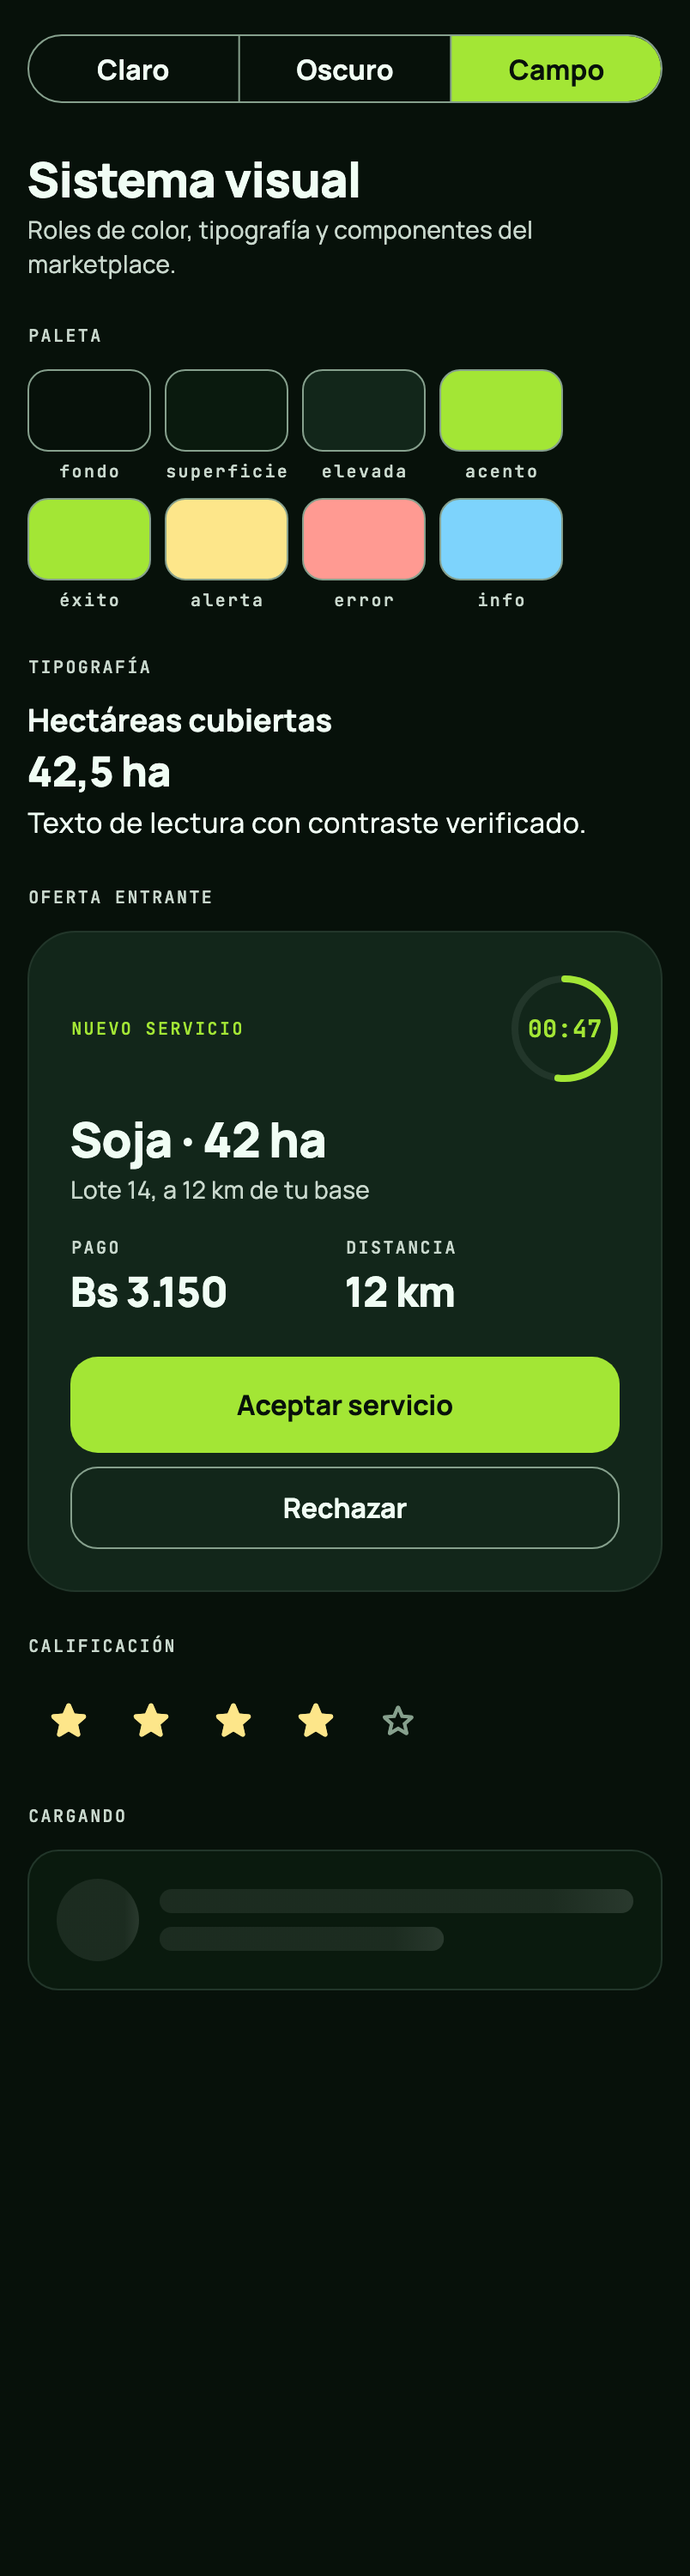
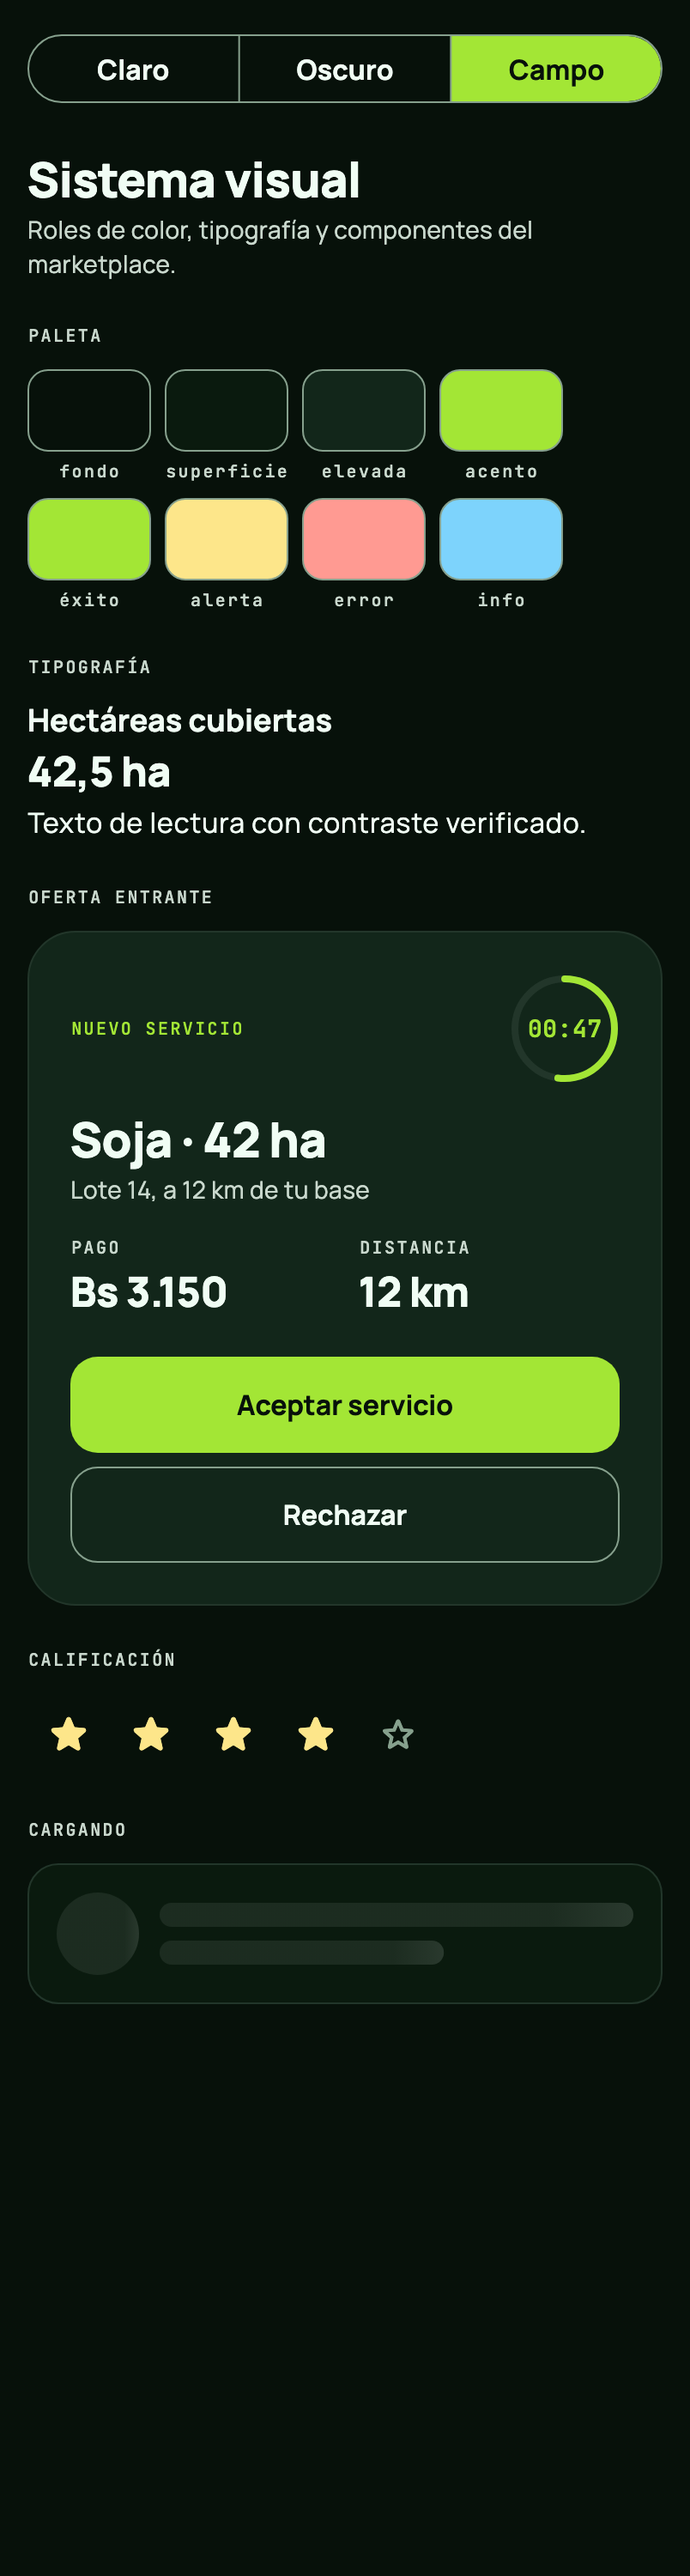
amplía la tarjeta de oferta con mapa, detalle y estados de envío y sin conexión
Suma el chip de estado y el error de carga con reintento que usan las
pantallas del proveedor. Pago y distancia pasan a una fila que se parte con
el texto al 200 %, el anillo crece con la escala y Rechazar toma el alto del
tema (56 px en modo campo). Se regeneran los goldens y las capturas de la
vitrina que muestran la tarjeta

diff --git a/lib/nucleo/ui/componentes/oferta_servicio_campo.dart b/lib/nucleo/ui/componentes/oferta_servicio_campo.dart
@@ -23,6 +23,11 @@ class OfertaServicioCampo extends StatelessWidget {
     required this.total,
     required this.onAceptar,
     required this.onRechazar,
+    this.etiqueta = 'NUEVO SERVICIO',
+    this.mapa,
+    this.onDetalle,
+    this.respondiendo = false,
+    this.sinConexion = false,
     super.key,
   });
 
@@ -43,8 +48,32 @@ class OfertaServicioCampo extends StatelessWidget {
   final VoidCallback onAceptar;
   final VoidCallback onRechazar;
 
-  String get _restanteTexto {
+  /// Rótulo en mono sobre el título ("PRIORITARIA · FLOTA DE AGROCOM").
+  final String etiqueta;
+
+  /// Mapa del lote, entre el detalle y los datos. Sin él la tarjeta es solo
+  /// texto.
+  final Widget? mapa;
+
+  /// Abre el detalle de la oferta.
+  final VoidCallback? onDetalle;
+
+  /// La respuesta viaja al servidor: los botones quedan en espera para que
+  /// un segundo toque no dispare otra.
+  final bool respondiendo;
+
+  /// Sin red no se puede responder (ADR 0009): los botones se apagan y la
+  /// tarjeta dice por qué.
+  final bool sinConexion;
+
+  /// "00:47" por debajo de la hora; "1 h 05" por encima (ofertas
+  /// programadas, con ventana de horas).
+  static String textoRestante(Duration restante) {
     final seg = restante.inSeconds.clamp(0, 359999);
+    if (seg >= 3600) {
+      final minutos = ((seg % 3600) ~/ 60).toString().padLeft(2, '0');
+      return '${seg ~/ 3600} h $minutos';
+    }
     final m = (seg ~/ 60).toString().padLeft(2, '0');
     final s = (seg % 60).toString().padLeft(2, '0');
     return '$m:$s';
@@ -59,11 +88,13 @@ class OfertaServicioCampo extends StatelessWidget {
         : (restante.inMilliseconds / total.inMilliseconds).clamp(0.0, 1.0);
     final porVencer = restante.inSeconds <= 10;
     final colorTiempo = porVencer ? paleta.error : paleta.acentoTexto;
+    final bloqueada = respondiendo || sinConexion;
+    final tiempo = textoRestante(restante);
 
     return Semantics(
       container: true,
       label:
-          'Oferta de servicio: $titulo, $monto, quedan $_restanteTexto para responder',
+          'Oferta de servicio: $titulo, $monto, quedan $tiempo para responder',
       child: Container(
         padding: const EdgeInsets.all(EspaciadoCampo.xl),
         decoration: BoxDecoration(
@@ -80,17 +111,18 @@ class OfertaServicioCampo extends StatelessWidget {
               children: [
                 Expanded(
                   child: Text(
-                    'NUEVO SERVICIO',
+                    etiqueta,
                     style: texto.labelSmall?.copyWith(
                       color: paleta.acentoTexto,
                     ),
                   ),
                 ),
+                const SizedBox(width: EspaciadoCampo.m),
                 _AnilloTiempo(
                   progreso: progreso,
                   color: colorTiempo,
                   pista: paleta.borde,
-                  texto: _restanteTexto,
+                  texto: tiempo,
                 ),
               ],
             ),
@@ -98,40 +130,88 @@ class OfertaServicioCampo extends StatelessWidget {
             Text(titulo, style: texto.headlineMedium),
             const SizedBox(height: EspaciadoCampo.xs),
             Text(detalle, style: texto.bodyMedium),
+            if (mapa != null) ...[
+              const SizedBox(height: EspaciadoCampo.l),
+              ClipRRect(
+                borderRadius: BorderRadius.circular(16),
+                child: SizedBox(height: 132, child: mapa),
+              ),
+            ],
             const SizedBox(height: EspaciadoCampo.l),
-            Row(
-              children: [
-                Expanded(
-                  child: _Dato(etiqueta: 'PAGO', valor: monto, paleta: paleta),
-                ),
-                Expanded(
-                  child: _Dato(
-                    etiqueta: 'DISTANCIA',
-                    valor: distancia,
-                    paleta: paleta,
-                  ),
-                ),
-              ],
+            // Dos columnas mientras entren; con el texto al 200 % cada dato
+            // ocupa su propia línea en vez de recortarse.
+            LayoutBuilder(
+              builder: (context, c) {
+                final mitad = (c.maxWidth - EspaciadoCampo.l) / 2;
+                return Wrap(
+                  spacing: EspaciadoCampo.l,
+                  runSpacing: EspaciadoCampo.m,
+                  children: [
+                    ConstrainedBox(
+                      constraints: BoxConstraints(minWidth: mitad),
+                      child: _Dato(etiqueta: 'PAGO', valor: monto),
+                    ),
+                    ConstrainedBox(
+                      constraints: BoxConstraints(minWidth: mitad),
+                      child: _Dato(etiqueta: 'DISTANCIA', valor: distancia),
+                    ),
+                  ],
+                );
+              },
             ),
             const SizedBox(height: EspaciadoCampo.xl),
+            if (sinConexion) ...[
+              Row(
+                key: const Key('oferta-sin-conexion'),
+                children: [
+                  Icon(Icons.wifi_off_rounded, size: 20, color: paleta.alerta),
+                  const SizedBox(width: EspaciadoCampo.s),
+                  Expanded(
+                    child: Text(
+                      'Sin conexión. Para responder necesitás red.',
+                      style: texto.bodyMedium?.copyWith(color: paleta.texto),
+                    ),
+                  ),
+                ],
+              ),
+              const SizedBox(height: EspaciadoCampo.m),
+            ],
             FilledButton(
-              onPressed: () {
-                HapticaCampo.confirmacion();
-                onAceptar();
-              },
+              onPressed: bloqueada
+                  ? null
+                  : () {
+                      HapticaCampo.confirmacion();
+                      onAceptar();
+                    },
               style: FilledButton.styleFrom(
                 minimumSize: const Size.fromHeight(ObjetivoTactilCampo.guantes),
+                disabledBackgroundColor: paleta.borde,
+                disabledForegroundColor: paleta.textoSecundario,
               ),
-              child: const Text('Aceptar servicio'),
+              child: Text(respondiendo ? 'Enviando…' : 'Aceptar servicio'),
             ),
             const SizedBox(height: EspaciadoCampo.s),
+            // El alto lo pone el tema: 48 en claro y oscuro, 56 en modo campo.
             OutlinedButton(
-              onPressed: onRechazar,
+              onPressed: bloqueada ? null : onRechazar,
               style: OutlinedButton.styleFrom(
-                minimumSize: const Size.fromHeight(ObjetivoTactilCampo.minimo),
+                disabledForegroundColor: paleta.textoSecundario,
               ),
               child: const Text('Rechazar'),
             ),
+            if (onDetalle != null) ...[
+              const SizedBox(height: EspaciadoCampo.xs),
+              TextButton(
+                onPressed: onDetalle,
+                style: TextButton.styleFrom(
+                  foregroundColor: paleta.acentoTexto,
+                  minimumSize: const Size.fromHeight(
+                    ObjetivoTactilCampo.minimo,
+                  ),
+                ),
+                child: const Text('Ver detalle y mapa'),
+              ),
+            ],
           ],
         ),
       ),
@@ -140,21 +220,17 @@ class OfertaServicioCampo extends StatelessWidget {
 }
 
 class _Dato extends StatelessWidget {
-  const _Dato({
-    required this.etiqueta,
-    required this.valor,
-    required this.paleta,
-  });
+  const _Dato({required this.etiqueta, required this.valor});
 
   final String etiqueta;
   final String valor;
-  final PaletaCampo paleta;
 
   @override
   Widget build(BuildContext context) {
     final texto = Theme.of(context).textTheme;
     return Column(
       crossAxisAlignment: CrossAxisAlignment.start,
+      mainAxisSize: MainAxisSize.min,
       children: [
         Text(etiqueta, style: texto.labelSmall),
         const SizedBox(height: EspaciadoCampo.xs),
@@ -179,18 +255,25 @@ class _AnilloTiempo extends StatelessWidget {
 
   @override
   Widget build(BuildContext context) {
+    // El anillo crece con el texto del sistema hasta vez y media: más allá
+    // le quita el ancho al rótulo de al lado.
+    final factor = (MediaQuery.textScalerOf(context).scale(14) / 14).clamp(
+      1.0,
+      1.5,
+    );
     return SizedBox(
-      width: 64,
-      height: 64,
+      width: 64 * factor,
+      height: 64 * factor,
       child: CustomPaint(
         painter: _AnilloPainter(progreso: progreso, color: color, pista: pista),
         child: Center(
           child: Text(
             texto,
+            textScaler: TextScaler.noScaling,
             style: TextStyle(
               fontFamily: 'JetBrains Mono',
               fontWeight: FontWeight.w600,
-              fontSize: 14,
+              fontSize: 14 * factor,
               color: color,
             ),
           ),

diff --git a/lib/nucleo/marketplace/ui/chip_estado_marketplace.dart b/lib/nucleo/marketplace/ui/chip_estado_marketplace.dart
@@ -1,0 +1,72 @@
+import 'package:flutter/material.dart';
+
+import '../../ui/paleta_campo.dart';
+import '../../ui/tokens_campo.dart';
+
+/// Tono semántico de un [ChipEstadoMarketplace].
+enum TonoEstado { exito, info, alerta, error, neutro }
+
+/// Estado en una píldora: ícono + texto sobre un fondo tenue del tono. El
+/// ícono y el texto portan el significado; el color solo lo refuerza
+/// (sistema visual, §2), así se lee igual bajo el sol o con daltonismo.
+class ChipEstadoMarketplace extends StatelessWidget {
+  const ChipEstadoMarketplace({
+    required this.etiqueta,
+    required this.tono,
+    required this.icono,
+    this.etiquetaSemantica,
+    super.key,
+  });
+
+  final String etiqueta;
+  final TonoEstado tono;
+  final IconData icono;
+
+  /// Lo que anuncia el lector de pantalla. Por defecto, «Estado: [etiqueta]».
+  final String? etiquetaSemantica;
+
+  @override
+  Widget build(BuildContext context) {
+    final paleta = context.paleta;
+    final color = switch (tono) {
+      TonoEstado.exito => paleta.exito,
+      TonoEstado.info => paleta.info,
+      TonoEstado.alerta => paleta.alerta,
+      TonoEstado.error => paleta.error,
+      TonoEstado.neutro => paleta.textoSecundario,
+    };
+    return Semantics(
+      container: true,
+      label: etiquetaSemantica ?? 'Estado: $etiqueta',
+      excludeSemantics: true,
+      child: Container(
+        padding: const EdgeInsets.symmetric(
+          horizontal: EspaciadoCampo.m,
+          vertical: EspaciadoCampo.xs + 2,
+        ),
+        decoration: BoxDecoration(
+          color: color.withValues(alpha: 0.14),
+          borderRadius: BorderRadius.circular(999),
+          border: Border.all(color: color.withValues(alpha: 0.5)),
+        ),
+        child: Row(
+          mainAxisSize: MainAxisSize.min,
+          children: [
+            Icon(icono, size: 16, color: color),
+            const SizedBox(width: EspaciadoCampo.xs + 2),
+            Flexible(
+              child: Text(
+                etiqueta,
+                style: Theme.of(context).textTheme.titleMedium?.copyWith(
+                  color: color,
+                  fontSize: 13,
+                  fontWeight: FontWeight.w700,
+                ),
+              ),
+            ),
+          ],
+        ),
+      ),
+    );
+  }
+}

diff --git a/lib/nucleo/marketplace/ui/estado_error_marketplace.dart b/lib/nucleo/marketplace/ui/estado_error_marketplace.dart
@@ -1,0 +1,55 @@
+import 'package:flutter/material.dart';
+
+import '../../ui/paleta_campo.dart';
+import '../../ui/tokens_campo.dart';
+
+/// Error de carga con salida: qué pasó y un botón para volver a intentar.
+class EstadoErrorMarketplace extends StatelessWidget {
+  const EstadoErrorMarketplace({
+    required this.titulo,
+    required this.onReintentar,
+    this.detalle,
+    super.key,
+  });
+
+  final String titulo;
+  final String? detalle;
+  final VoidCallback onReintentar;
+
+  @override
+  Widget build(BuildContext context) {
+    final paleta = context.paleta;
+    final texto = Theme.of(context).textTheme;
+    return Center(
+      child: Padding(
+        padding: const EdgeInsets.all(EspaciadoCampo.xxl),
+        child: Column(
+          mainAxisSize: MainAxisSize.min,
+          children: [
+            Icon(
+              Icons.cloud_off_rounded,
+              size: 48,
+              color: paleta.textoSecundario,
+            ),
+            const SizedBox(height: EspaciadoCampo.m),
+            Text(titulo, style: texto.titleLarge, textAlign: TextAlign.center),
+            if (detalle != null) ...[
+              const SizedBox(height: EspaciadoCampo.xs),
+              Text(
+                detalle!,
+                style: texto.bodyMedium,
+                textAlign: TextAlign.center,
+              ),
+            ],
+            const SizedBox(height: EspaciadoCampo.l),
+            OutlinedButton.icon(
+              onPressed: onReintentar,
+              icon: const Icon(Icons.refresh_rounded),
+              label: const Text('Reintentar'),
+            ),
+          ],
+        ),
+      ),
+    );
+  }
+}

diff --git a/lib/nucleo/ui/componentes/esqueleto_campo.dart b/lib/nucleo/ui/componentes/esqueleto_campo.dart
@@ -7,8 +7,8 @@ import '../tokens_campo.dart';
 /// de layout al llegar los datos. Brilla con un barrido suave; con
 /// "reducir movimiento" queda estático.
 ///
-/// Se usa en pantallas del flavor cliente (online-first), donde sí hay
-/// espera de red. En el lote (offline) los datos salen de `drift` y no hay
+/// Se usa donde sí hay espera de red: el flavor cliente (online-first) y la
+/// superficie del proveedor (ofertas, perfil, drones). En el lote (offline) los datos salen de `drift` y no hay
 /// esqueleto: la pantalla ya tiene contenido.
 class EsqueletoCampo extends StatefulWidget {
   const EsqueletoCampo({this.ancho, this.alto = 16, this.radio = 8, super.key});

diff --git a/lib/nucleo/marketplace/ui/marketplace_ui.dart b/lib/nucleo/marketplace/ui/marketplace_ui.dart
@@ -4,6 +4,8 @@ library;
 export 'aviso_marketplace.dart';
 export 'avatar_proveedor.dart';
 export 'calificacion_promedio.dart';
+export 'chip_estado_marketplace.dart';
+export 'estado_error_marketplace.dart';
 export 'estado_vacio_marketplace.dart';
 export 'formato_marketplace.dart';
 export 'fuente_estable.dart';
